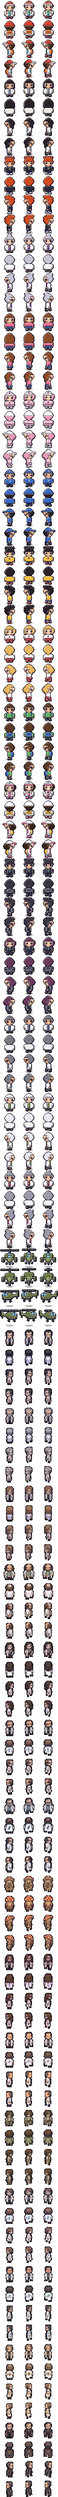
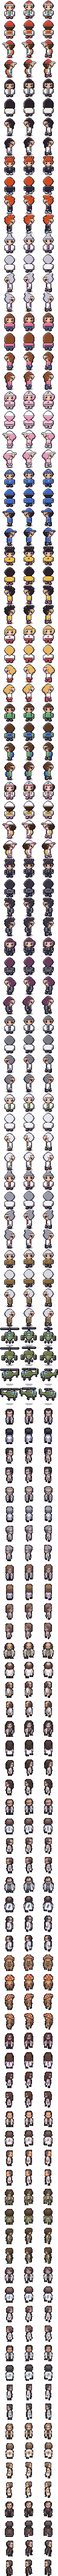
Misiones secundarias: examen, intercambios y premios de la Microdex
Claude-Session: https://claude.ai/code/session_018v1fAZrQHSEnPWssP3zxe4

diff --git a/src/game/scripts.ts b/src/game/scripts.ts
@@ -8,7 +8,7 @@ import { evolutionSequence } from "./scenes/battle";
 import { SlotMachine, fichas } from "./scenes/casino";
 import { HallOfFame, Credits } from "./scenes/creditos";
 import { saveGame } from "./state";
-import { Battle, Rng, createMicroo, trainerParty, fullHeal, getSpecies, SPECIES, TRAINERS, conjugationEvolution, type Microo } from "../engine";
+import { Battle, Rng, createMicroo, trainerParty, fullHeal, getSpecies, SPECIES, TRAINERS, ITEMS, conjugationEvolution, type Microo } from "../engine";
 import { addItem, markCaught, markSeen } from "./state";
 import { MAPS } from "./world/maps";
 
@@ -979,6 +979,71 @@ const SCRIPTS: Record<string, Script> = {
 
   async congelador(game) {
     await congeladorMenu(game);
+  },
+
+  /** Recompensas del ayudante de la Profesora según las especies aisladas. */
+  async ayudanteDex(game) {
+    const s = S(game);
+    const PREMIOS: [number, string, number][] = [[15, "criobola-azul", 5], [40, "criobola-amarilla", 5], [80, "medio-enriquecido", 5], [120, "atp-concentrado", 5], [150, "criobola-morada", 1]];
+    const done = Number(s.flags.premiosDex ?? 0);
+    const next = PREMIOS[done];
+    if (!next) { await game.say(`Ayudante: ¡${s.caught.length} especies! Ya no me quedan premios. La Profesora dice que eres una leyenda.`); return; }
+    if (s.caught.length < next[0]) {
+      await game.say(`Ayudante: Llevas ${s.caught.length} especies aisladas. Cuando llegues a ${next[0]}, te daré un regalo de parte del laboratorio.`);
+      return;
+    }
+    s.flags.premiosDex = done + 1;
+    addItem(s, next[1], next[2]);
+    audio.sfx("capture");
+    await game.say(`Ayudante: ¡${next[0]} especies aisladas! Toma, te lo has ganado.`);
+    await game.say(`¡{nombre} ha recibido ${next[2] > 1 ? next[2] + " × " : ""}${ITEMS.get(next[1])!.name}!`);
+  },
+
+  /** Intercambio con un PNJ: "quiere|da|mote". */
+  async intercambio(game, _w, arg) {
+    const s = S(game);
+    const [need, give, nick] = (arg ?? "").split("|");
+    const key = `trade-${give}`;
+    const nn = getSpecies(need).name, gn = getSpecies(give).name;
+    if (s.flags[key]) { await game.say(`¿Qué tal está ${nick}? ¡Seguro que te está dando mucha guerra! Cuídalo bien.`); return; }
+    if (!(await game.yesno(`Estoy buscando un ${nn}. ¿Me cambias uno por mi ${gn}?`))) { await game.say("Vaya… Si cambias de idea, aquí estaré."); return; }
+    const i = await partyMenu(game, { mode: "item", prompt: `¿Qué ${nn} me das?` });
+    if (i < 0) return;
+    const m = s.party[i];
+    if (m.species !== need) { await game.say(`Eso no es un ${nn}… ¡Yo quiero un ${nn}!`); return; }
+    const got = createMicroo(give, m.level, { rng: rng(game), nickname: nick });
+    got.originalTrainer = "Vecino";
+    s.party[i] = got;
+    markSeen(s, give); markCaught(s, give);
+    s.flags[key] = true;
+    await game.say(`${displayNameOf(m)} se marcha… ¡y llega ${nick}!`);
+    audio.sfx("capture");
+    await game.say(`¡Gracias! Cuida de ${nick}, es muy especial para mí.`);
+  },
+
+  /** Examen sorpresa de microbiología (recompensa única). */
+  async examen(game) {
+    const s = S(game);
+    if (s.flags.examen) { await game.say("Catedrático jubilado: ¡Mi mejor alumn{o}! Sigue estudiando, que la microbiología nunca se acaba."); return; }
+    await game.say("Catedrático jubilado: Cuarenta años poniendo exámenes… ¿Te atreves con cinco preguntas? Si las aciertas todas, tendrás premio.");
+    if (!(await game.yesno("¿Empezamos el examen?"))) return;
+    const Q: [string, string[], number][] = [
+      ["¿De qué color quedan las Gram+ tras la tinción de Gram?", ["Violeta", "Rosa", "Verde"], 0],
+      ["¿Quién descubrió la penicilina en 1928?", ["Pasteur", "Fleming", "Koch"], 1],
+      ["¿De qué bacteria sale la Taq polimerasa de la PCR?", ["E. coli", "B. subtilis", "T. aquaticus"], 2],
+      ["¿Qué estructura permite la conjugación bacteriana?", ["El pilus", "El flagelo", "La cápsula"], 0],
+      ["¿Qué usaba Fanny Hesse para solidificar los medios?", ["Gelatina", "Agar", "Almidón"], 1],
+    ];
+    let ok = 0;
+    for (const [q, opts, right] of Q) {
+      const r = await game.choose(opts, { prompt: q, cancel: -1 });
+      if (r === right) { ok++; audio.sfx("ok"); } else audio.sfx("bump");
+    }
+    if (ok < Q.length) { await game.say(`Catedrático: ${ok} de ${Q.length}… Suspenso. ¡A septiembre! Vuelve cuando hayas repasado.`); return; }
+    s.flags.examen = true;
+    addItem(s, "criobola-amarilla", 3); addItem(s, "medio-enriquecido", 2);
+    await game.say("Catedrático: ¡Matrícula de Honor! Toma, para tus prácticas de campo.");
+    await game.say("¡{nombre} ha recibido 3 × Criobola Amarilla y 2 × Medio Enriquecido!");
   },
 
   /** Estación de Conjugación: evoluciones que en el GDD requieren intercambio (conjugación bacteriana). */

diff --git a/src/game/world/maps.ts b/src/game/world/maps.ts
@@ -64,7 +64,7 @@ add(casa("casa-vecina", "Casa vecina", { to: "pueblo-plaqueta", x: 14, y: 5 }, [
   b.fill(5, 9, 2, 1, "a");
   b.npc({ id: "profesora", x: 5, y: 3, sprite: "profesora", dir: 0, script: "profesora" });
   b.npc({ id: "rival-lab", x: 3, y: 6, sprite: "rival", dir: 3, script: "rivalLab", hideIf: "rival1" });
-  b.npc({ id: "ayudante", x: 9, y: 6, sprite: "becario", dir: 2, talk: ["Soy el ayudante de la Profesora.", "Cuidamos las cepas a 37 °C. ¡Ni un grado más!"] });
+  b.npc({ id: "ayudante", x: 9, y: 6, sprite: "becario", dir: 2, script: "ayudanteDex" });
   b.npc({ id: "ball-synechoc", x: 4, y: 4, sprite: "@criobola", script: "elegir:synechoc", hideIf: "inicial", solid: true });
   b.npc({ id: "ball-butyricum", x: 5, y: 4, sprite: "@criobola", script: "elegir:butyricum", hideIf: "inicial", solid: true });
   b.npc({ id: "ball-paramec", x: 6, y: 4, sprite: "@criobola", script: "elegir:paramec", hideIf: "inicial", solid: true });
@@ -466,6 +466,7 @@ add(casa("casa-cultivo", "Casa de Ciudad Cultivo", { to: "ciudad-cultivo", x: 16
 add(incubadora("incubadora-gram", "Ciudad Gram", { to: "ciudad-gram", x: 5, y: 6 }));
 add(tienda("tienda-gram", "Ciudad Gram", { to: "ciudad-gram", x: 18, y: 16 }, ["criobola-roja", "criobola-azul", "criobola-amarilla", "medio-lb", "medio-tsb", "solucion-salina", "glicerol", "atp-concentrado"]));
 add(casa("casa-gram", "Casa de Ciudad Gram", { to: "ciudad-gram", x: 7, y: 15 }, [
+  { id: "gram-examen", x: 6, y: 4, sprite: "jubilado", dir: 0, script: "examen" },
   { id: "gram-casa", x: 5, y: 3, sprite: "madre", dir: 0, talk: ["Mi hijo trabaja en el Instituto de Biotecnología, más allá de Ciudad Aerobia.", "Dice que últimamente hay gente rara con portátiles por los pasillos…"] },
 ]));
 {
@@ -536,6 +537,7 @@ add(casa("casa-gram", "Casa de Ciudad Gram", { to: "ciudad-gram", x: 7, y: 15 },
 }
 add(incubadora("incubadora-levadura", "Pueblo Levadura", { to: "pueblo-levadura", x: 5, y: 6 }));
 add(casa("casa-levadura", "Casa de Pueblo Levadura", { to: "pueblo-levadura", x: 19, y: 15 }, [
+  { id: "lev-trueque", x: 6, y: 4, sprite: "chico", dir: 0, script: "intercambio:sacchari|pastorian|Lager" },
   { id: "lev-casa", x: 5, y: 3, sprite: "profesora", dir: 0, talk: ["Fui técnica de laboratorio cuarenta años. En esa torre guardábamos las placas que se estropeaban.", "Ahora la niebla no deja subir a nadie… Dicen que hay alguien arriba desde hace días."] },
 ]));
 
@@ -581,7 +583,7 @@ function torre(n: number) {
   const b = torre(3);
   b.set(0, 12, "E").fill(3, 6, 5, 1, "I").set(2, 3, "I").set(8, 3, "I");
   b.npc({ id: "hernandez", x: 5, y: 8, sprite: "hernandez", dir: 0, hideIf: "hernandez1" });
-  b.npc({ id: "torre-jubilado", x: 5, y: 3, sprite: "becario", dir: 0, script: "jubiladoTorre" });
+  b.npc({ id: "torre-jubilado", x: 5, y: 3, sprite: "jubilado", dir: 0, script: "jubiladoTorre" });
   b.trigger({ x: 1, y: 9, w: 9, h: 2, script: "albaHernandez", once: "hernandez1" });
   b.warp({ x: 0, y: 12, to: "torre-prion-2", tx: 1, ty: 12, dir: 3 });
   b.encounters([{ sp: "genitalium", min: 31, max: 33, w: 30 }, { sp: "pneumoniae", min: 31, max: 33, w: 35 }, { sp: "bovis", min: 31, max: 33, w: 35 }]);
@@ -775,6 +777,7 @@ add(casa("casa-aerobia", "Casa de Ciudad Aerobia", { to: "ciudad-aerobia", x: 10
 add(incubadora("incubadora-agar", "Ciudad Agar", { to: "ciudad-agar", x: 5, y: 6 }));
 add(tienda("tienda-agar", "Ciudad Agar", { to: "ciudad-agar", x: 5, y: 16 }, ["criobola-azul", "criobola-amarilla", "medio-tsb", "medio-enriquecido", "solucion-salina", "glicerol", "atp-concentrado"]));
 add(casa("casa-agar", "Casa de Ciudad Agar", { to: "ciudad-agar", x: 22, y: 16 }, [
+  { id: "agar-trueque", x: 6, y: 4, sprite: "chica", dir: 0, script: "intercambio:albicans|auris|Aurita" },
   { id: "agar-casa", x: 5, y: 3, sprite: "madre", dir: 0, talk: ["Fanny Hesse sugirió usar agar en vez de gelatina, porque no se derrite a 37 °C.", "¡Por eso la Profesora de tu pueblo se llama así! Es un homenaje."] },
 ]));
 {

diff --git a/tools/art/characters_ds.py b/tools/art/characters_ds.py
@@ -242,6 +242,7 @@ P["recluta-b"] = dict(pelo="coleta", pelo_c="#6a3a5a", piel="#f0c8a8", camisa="#
 P["marti"] = dict(pelo="corto", pelo_c="#7a7a84", piel="#e8b890", camisa="#3a5a8a", bata="#f2f2f6", pantalon="#3a3a48", zapato="#2a2428", gafas=True, detalle="#c83c3c")
 P["barbe"] = dict(pelo="corto", pelo_c="#e8e8f0", piel="#f0c8a8", camisa="#5a8a3a", bata="#f2f2f6", pantalon="#4a4a5a", zapato="#5a3a2a", detalle="#f0c040")
 P["llagostera"] = dict(pelo="moño", pelo_c="#9a9aa8", piel="#f2c6a0", camisa="#8a2a4a", bata="#f2f2f6", pantalon="#3a3a48", zapato="#3a2a2a", gafas=True, falda="#3a3a48", detalle="#f0c040")
+P["jubilado"] = dict(pelo="corto", pelo_c="#d8d8e0", piel="#e8bc98", camisa="#8a6a3a", manga="camisa", pantalon="#5a5a4a", zapato="#3a2a20", gafas=True, detalle="#c8b070")
 P["apache"] = dict(helicoptero=True, piel="#000000", pelo_c="#000000", camisa="#000000", pantalon="#000000", zapato="#000000",
     x_fuselaje="#6a7a44", x_vientre="#8a9a5c", x_cabina="#78b8d8", x_metal="#3a3e44", x_rotor="#2a2c30",
     x_pod="#4a5236", x_punta="#c8c0a0")

diff --git a/PROGRESO.md b/PROGRESO.md
@@ -111,6 +111,7 @@ Roadmap: 7 fases (0–6). Cada fase termina en una puerta.
 - Playtest dividido: `PART=early` (hasta la 4.ª medalla) y `PART=late` (de la 5.ª al final, con estado preparado); cada mitad tarda menos de 10 minutos.
 - Estación de Conjugación en Isla Conjugada (técnica junto a la Incubadora): activa las evoluciones por conjugación. Plásmidos a la venta en las tiendas de Parque Biotec e Isla Conjugada.
 - Microdex con ficha por especie (A en la lista): nombre científico real, entrada divulgativa (`tools/dex_text.py` → `scientific`/`entry` en `microdex.json`), tipos, preevolución y página de hábitat calculada de las tablas de encuentros.
+- Misiones secundarias: examen sorpresa del catedrático jubilado (casa de Ciudad Gram, 5 preguntas), intercambios con vecinos (Sacchari→Pastorian «Lager» en Pueblo Levadura, Albicans→Auris «Aurita» en Ciudad Agar) y premios del ayudante de la Profesora a las 15/40/80/120/150 especies. Nuevo sprite: jubilado.
 - Las 162 especies son obtenibles: Mirabilis (Ruta 2), Pelagibac (Ruta 3), Listeria (Ruta 8), Pyrococcus (Central Metabólica), Plasmodium y Toxoplasma (Calle Selección Natural); Salmonella legendaria en los jardines de La UAB tras ser Campeón; la Profesora regala los otros dos iniciales tras la Liga.
 
 ## Siguiente tarea
